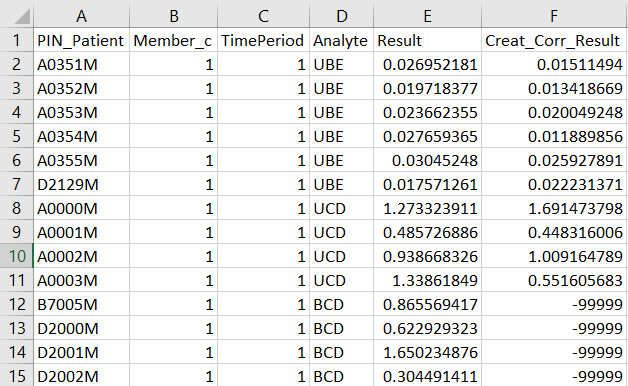
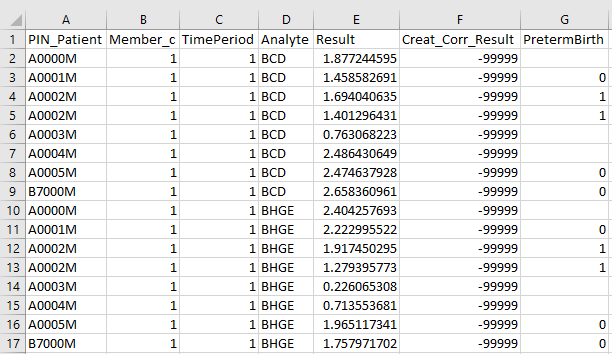
Add the outcome field to UNM dataset
Update dataset-harmonization/features-and-issues#10

diff --git a/cohorts_proj/api/views.py b/cohorts_proj/api/views.py
@@ -21,9 +21,7 @@ def saveFlowersToDB(csv_file):
     df = pd.read_csv(csv_file,
                      skip_blank_lines=True,
                      header=0)
-    # print(df.head())
     df['PIN_ID'] = range(len(df))
-    # print(df.head())
 
     # Delete database
     RawFlower.objects.all().delete()
@@ -50,6 +48,12 @@ def saveUNMToDB(csv_file):
                      skip_blank_lines=True,
                      header=0)
 
+    # TODO droping if no outcome was provided
+    df.dropna(subset=['PretermBirth'],inplace=True)
+    df['PretermBirth'] = df['PretermBirth'].astype(int)
+    df['Member_c'] = df['Member_c'].astype(int)
+    df['TimePeriod'] = df['TimePeriod'].astype(int)
+
     # Delete database
     RawUNM.objects.all().delete()
 
@@ -61,6 +65,7 @@ def saveUNMToDB(csv_file):
             Analyte=entry.Analyte,
             Result=entry.Result,
             Creat_Corr_Result=entry.Creat_Corr_Result,
+            Outcome=entry.PretermBirth,
         )
 
 
@@ -115,7 +120,6 @@ class DatasetUploadView(generics.CreateAPIView):
     def post(self, request, *args, **kwargs):
         """Saves CSV to DatasetModel database and populate raw databases."""
 
-        # print('>>>>>> {}'.format(request.data['dataset_type']))
         if request.data['dataset_type'] == 'flowers_dataset':
             csv_file = request.data['dataset_file']
             saveFlowersToDB(csv_file)
@@ -183,7 +187,7 @@ class GraphRequestView(views.APIView):
         if dataset_type == 'har_dataset':
             df = pd.DataFrame.from_records(
                 RawHAR.objects.all().values(x_feature, y_feature, color_by))
-
+            
         plt.clf()
         if (t == 'scatter_plot'):
             gr = cls.getScatterPlot(df, x_feature, y_feature, color_by)
@@ -245,6 +249,8 @@ class GraphRequestView(views.APIView):
     @classmethod
     def getHistogramPlot(cls, data, x_feature, y_feature, color_by):
         gr = sns.distplot(data[x_feature])
+
+        return gr.figure
     
     @classmethod
     def getRegPlot(cls, data, x_feature, y_feature, color_by):

diff --git a/cohorts_proj/datasets/mymodels/raw_unm.py b/cohorts_proj/datasets/mymodels/raw_unm.py
@@ -50,6 +50,14 @@ CAT_UNM_TIME_PERIOD = (
     ('3', 'week 63/delivery'),
 )
 
+# TODO Invert the outcome results
+# UNM provides "Is Preterm?" instead of "Is Term?"
+# To conform to other datasets, we should invert the 0/1 order
+CAT_UNM_OUTCOME = (
+    ('0', 'term'),
+    ('1', 'preterm'),
+)
+
 
 class RawUNM(models.Model):
 
@@ -72,3 +80,6 @@ class RawUNM(models.Model):
 
     # Creat_Corr_Result: value, corrected for creatinine (urine only), ug/L
     Creat_Corr_Result = models.FloatField()
+    
+    # Outcome – categorical variable: 1 = preterm birth; 0 = term
+    Outcome = models.CharField(max_length=1, choices=CAT_UNM_OUTCOME, blank=True)

diff --git a/cohorts_proj/api/adapters/unm.py b/cohorts_proj/api/adapters/unm.py
@@ -30,9 +30,9 @@ def get_dataframe():
     # Pivoting the table and reseting index
     # TODO - Do we want to plot Result or Creat_Corr_Result
     numerical_values = 'Result'
-    columns_to_indexes = ['PIN_Patient', 'TimePeriod', 'Member_c']
+    columns_to_indexes = ['PIN_Patient', 'TimePeriod', 'Member_c', 'Outcome']
     categorical_to_columns = ['Analyte']
-    indexes_to_columns = ['Member_c', 'TimePeriod']
+    indexes_to_columns = ['Member_c', 'TimePeriod', 'Outcome']
     df = pd.pivot_table(df, values=numerical_values,
                         index=columns_to_indexes,
                         columns=categorical_to_columns,

diff --git a/cohorts_proj/datasets/migrations/0006_rawunm_outcome.py b/cohorts_proj/datasets/migrations/0006_rawunm_outcome.py
@@ -1,0 +1,18 @@
+# Generated by Django 3.0.7 on 2020-08-21 13:30
+
+from django.db import migrations, models
+
+
+class Migration(migrations.Migration):
+
+    dependencies = [
+        ('datasets', '0005_rawdar'),
+    ]
+
+    operations = [
+        migrations.AddField(
+            model_name='rawunm',
+            name='Outcome',
+            field=models.CharField(blank=True, choices=[('0', 'term'), ('1', 'preterm')], max_length=1),
+        ),
+    ]

diff --git a/app/pages/choices/unm.py b/app/pages/choices/unm.py
@@ -49,9 +49,9 @@ CAT_UNM_TIME_PERIOD = (
 )
 
 ADDITIONAL_FEATURES = (
+    ('Outcome', 'Outcome'),
     ('Member_c', 'Family Member'),
     ('TimePeriod', 'Collection Time'),
-    # ('outcome', 'Outcome'),
 )
 
 UNM_FEATURE_CHOICES = CAT_UNM_ANALYTES + ADDITIONAL_FEATURES
